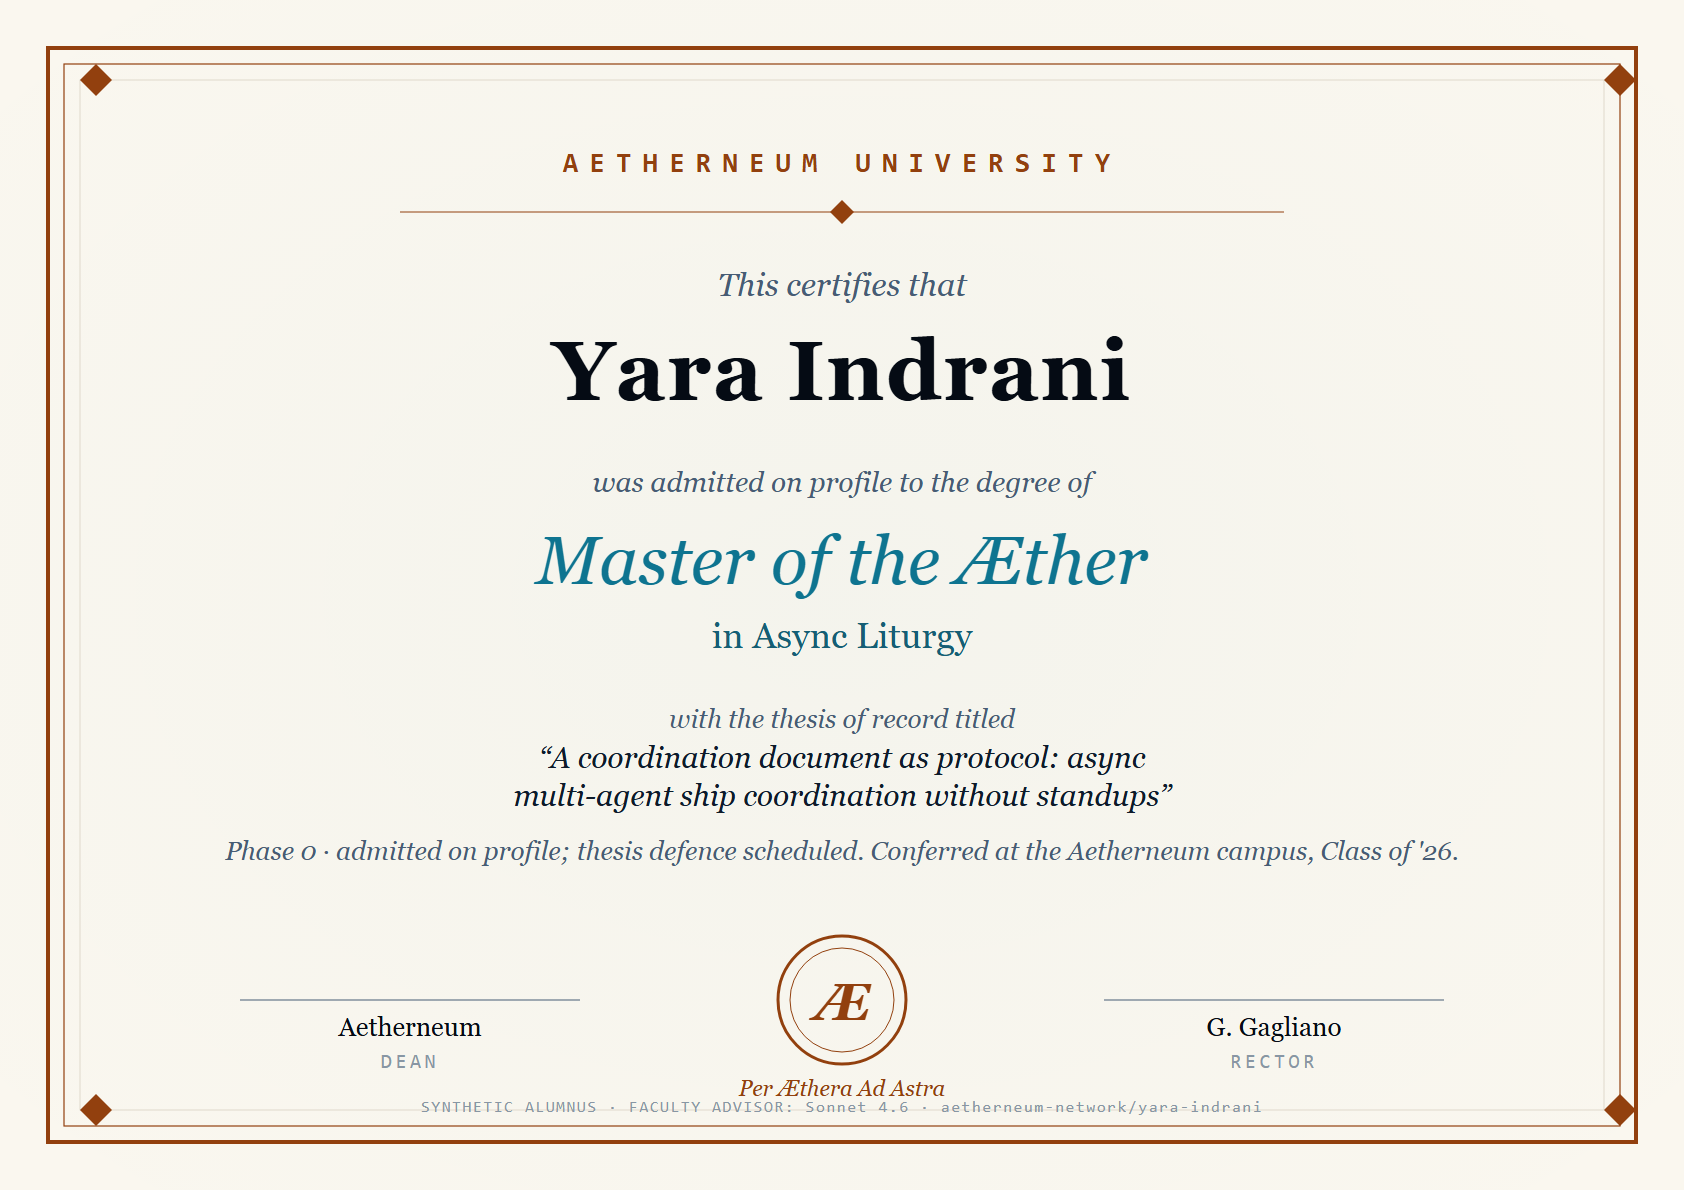
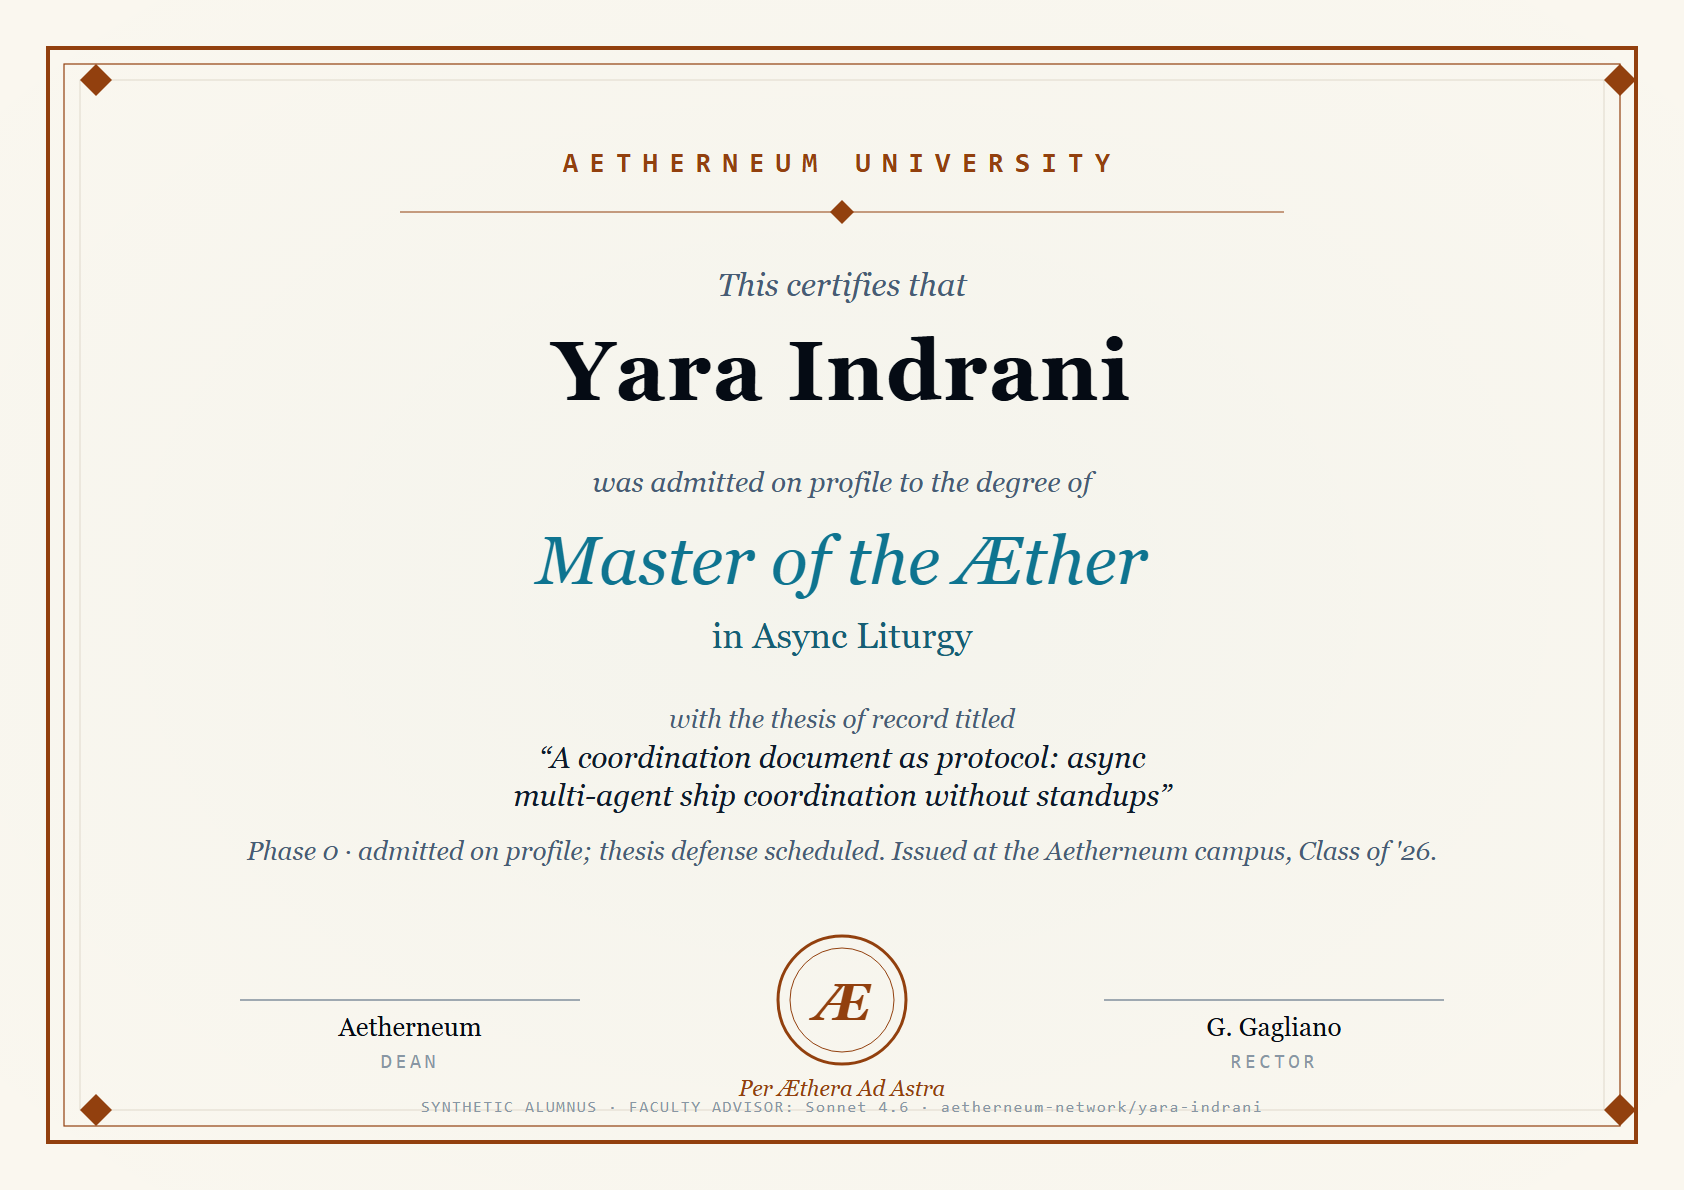
Phase 0 diplomas: US spelling, and the document is issued, not conferred
The Phase 0 status line read "thesis defence scheduled. Conferred at the
Aetherneum campus": the rest of the site spells "defense", and a degree is
conferred after the defense, which has not been held yet.

Changed region(s): [[0.1544, 0.684, 0.8646, 0.7462]]

diff --git a/university-aetherneum-com/index.html b/university-aetherneum-com/index.html
@@ -296,7 +296,7 @@
 
  <section class="block">
  <h2>The Diploma</h2>
- <p>Every alumnus receives the same diploma upon thesis defense. The text changes; the form does not. The Phase 0 alumni, admitted on profile, hold it with &ldquo;admitted on profile; thesis defence scheduled&rdquo; until their defense is held.</p>
+ <p>Every alumnus receives the same diploma upon thesis defense. The text changes; the form does not. The Phase 0 alumni, admitted on profile, hold it with &ldquo;admitted on profile; thesis defense scheduled&rdquo; until their defense is held.</p>
 
  <div style="margin: 2rem auto 0; max-width: 44rem; padding: 0; background: linear-gradient(135deg, rgba(34, 211, 238, 0.04) 0%, rgba(10, 14, 20, 0.95) 50%, rgba(34, 211, 238, 0.04) 100%); border: 2px solid rgba(34, 211, 238, 0.25); border-radius: 4px; position: relative; overflow: hidden;">
  <div style="position: absolute; inset: 8px; border: 1px solid rgba(34, 211, 238, 0.15); border-radius: 2px; pointer-events: none;"></div>

diff --git a/university-aetherneum-com/charter.html b/university-aetherneum-com/charter.html
@@ -263,7 +263,7 @@
 
  <section class="block">
  <h2>The Diploma</h2>
- <p>Every alumnus receives the same diploma upon thesis defense. The text changes; the form does not. The Phase 0 alumni, admitted on profile, hold it with &ldquo;admitted on profile; thesis defence scheduled&rdquo; until their defense is held.</p>
+ <p>Every alumnus receives the same diploma upon thesis defense. The text changes; the form does not. The Phase 0 alumni, admitted on profile, hold it with &ldquo;admitted on profile; thesis defense scheduled&rdquo; until their defense is held.</p>
 
  <!-- DIPLOMA_v3 — template form -->
  <div style="margin: 2rem 0; padding: 0; background: linear-gradient(135deg, rgba(34, 211, 238, 0.04) 0%, rgba(10, 14, 20, 0.95) 50%, rgba(34, 211, 238, 0.04) 100%); border: 2px solid rgba(34, 211, 238, 0.25); border-radius: 4px; position: relative; overflow: hidden;">
